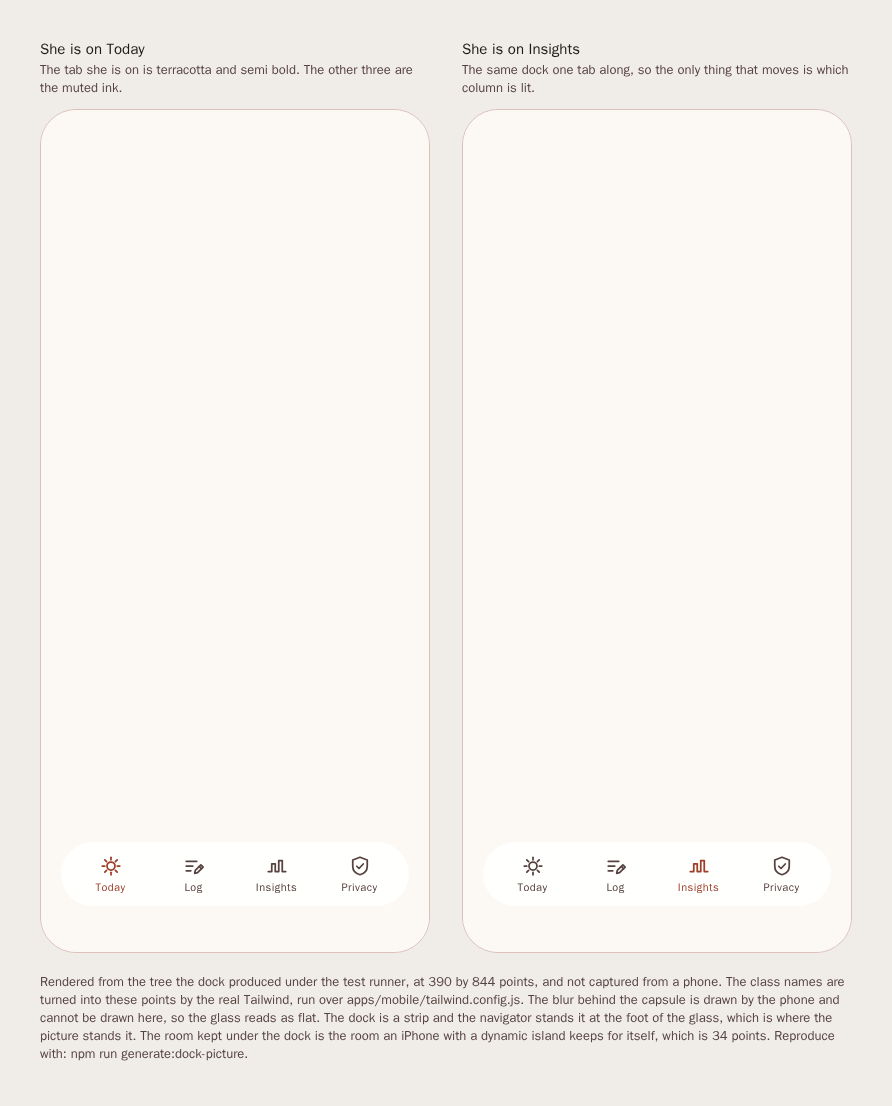
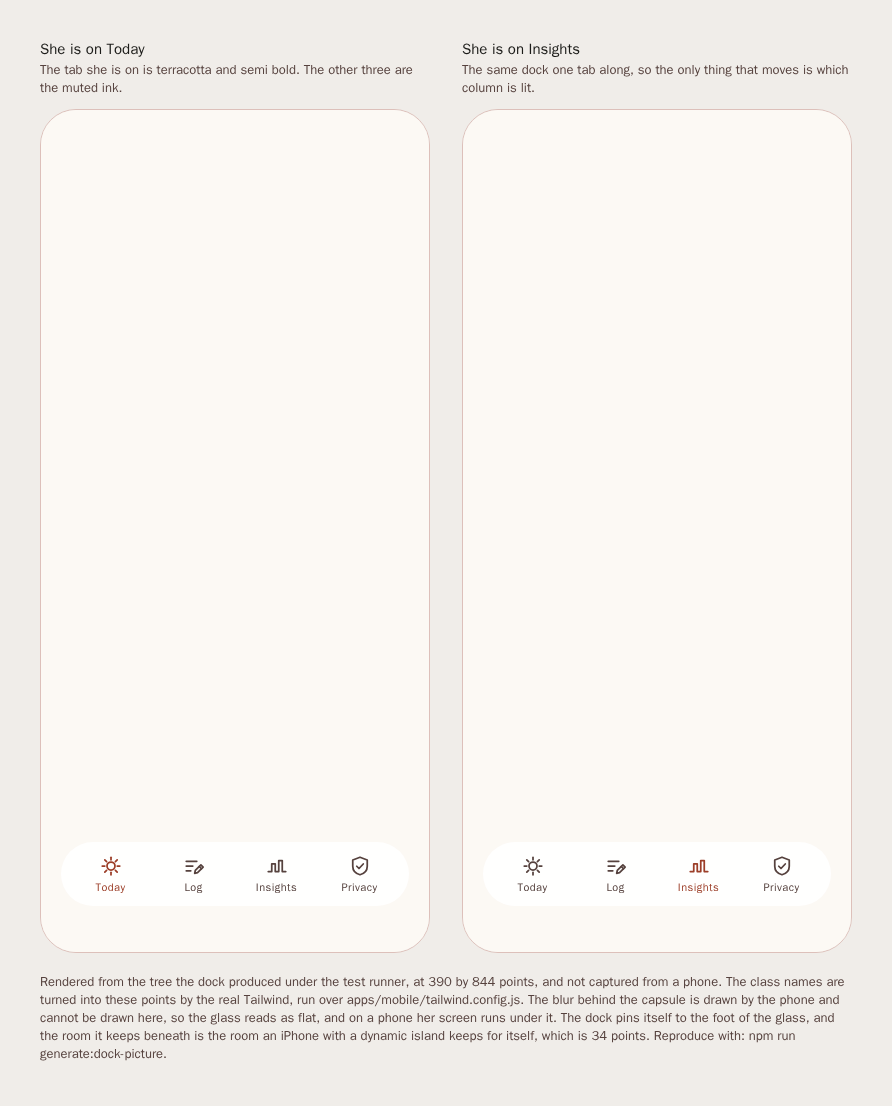
EMI: fix: the dock hangs over the screen instead of standing beside it

Changed region(s): [[0.0303, 0.8915, 0.9383, 0.9837]]

diff --git a/brand/screens/bottom-navigation.html b/brand/screens/bottom-navigation.html
@@ -26,4 +26,4 @@ svg { flex-shrink: 0; }
 .title { font-size: 15px; font-weight: 600; color: #1C1C19; margin: 0 0 2px; }
 .note { font-size: 13px; color: #56423E; margin: 0 0 12px; min-height: 34px; }
 .caveat { font-size: 13px; color: #56423E; margin: 20px 0 0; max-width: 1200px; }
-</style></head><body><div class="screens"><section class="screen"><p class="title">She is on Today</p><p class="note">The tab she is on is terracotta and semi bold. The other three are the muted ink.</p><div class="phone"><div style="background-color: #FCF9F4; height: 100%; justify-content: flex-end"><div style="padding-bottom: 34px"><div style="padding-inline: 20px; padding-bottom: 12px"><div style="margin-inline: auto; height: 64px; width: 100%; max-width: 448px; border-radius: 9999px"><div style="background-color: transparent; border-radius: 9999px; bottom: 0px; left: 0px; overflow: hidden; position: absolute; right: 0px; top: 0px"><div style="position: absolute; left: 0px; right: 0px; top: 0px; bottom: 0px"></div></div><div style="height: 64px; flex-direction: row; align-items: center; justify-content: space-around; border-radius: 9999px; background-color: #ffffffe5; padding-inline: 8px"><div style="height: 48px; min-width: 52px; flex-direction: column; align-items: center; justify-content: center"><svg width="24" height="24" viewBox="0 0 24 24"><g stroke="#9c3e28" stroke-width="1.75" stroke-linecap="round" stroke-linejoin="round"><circle cx="12" cy="12" r="4" fill="none"></circle><path d="M12 5.75V3.25" fill="none"></path><path d="M16.42 7.58 18.19 5.81" fill="none"></path><path d="M18.25 12h2.5" fill="none"></path><path d="m16.42 16.42 1.77 1.77" fill="none"></path><path d="M12 18.25v2.5" fill="none"></path><path d="M7.58 16.42 5.81 18.19" fill="none"></path><path d="M5.75 12h-2.5" fill="none"></path><path d="M7.58 7.58 5.81 5.81" fill="none"></path></g></svg><div style="margin-top: 2px; font-size: 11px; font-weight: 600; line-height: 14px; color: #9c3e28; letter-spacing: 0.44px">Today</div></div><div style="height: 48px; min-width: 52px; flex-direction: column; align-items: center; justify-content: center"><svg width="24" height="24" viewBox="0 0 24 24"><g stroke="#56423e" stroke-width="1.75" stroke-linecap="round" stroke-linejoin="round"><path d="M4.25 7.25h10.5" fill="none"></path><path d="M4.25 12h6.5" fill="none"></path><path d="M4.25 16.75h4.5" fill="none"></path><path d="m18.9 10.85 2.25 2.25-5.6 5.6-2.85.6.6-2.85z" fill="none"></path><path d="m17.25 12.5 2.25 2.25" fill="none"></path></g></svg><div style="margin-top: 2px; font-size: 11px; font-weight: 600; line-height: 14px; color: #56423e; letter-spacing: 0.44px">Log</div></div><div style="height: 48px; min-width: 52px; flex-direction: column; align-items: center; justify-content: center"><svg width="24" height="24" viewBox="0 0 24 24"><g stroke="#56423e" stroke-width="1.75" stroke-linecap="round" stroke-linejoin="round"><path d="M3.25 17.5h3.5V9.75h3.5v7.75h3.5V6.5h3.5v11h3.5" fill="none"></path></g></svg><div style="margin-top: 2px; font-size: 11px; font-weight: 600; line-height: 14px; color: #56423e; letter-spacing: 0.44px">Insights</div></div><div style="height: 48px; min-width: 52px; flex-direction: column; align-items: center; justify-content: center"><svg width="24" height="24" viewBox="0 0 24 24"><g stroke="#56423e" stroke-width="1.75" stroke-linecap="round" stroke-linejoin="round"><path d="M12 3.25 4.75 6v6.25c0 4.35 3 7.35 7.25 8.5 4.25-1.15 7.25-4.15 7.25-8.5V6z" fill="none"></path><path d="m8.75 12.25 2.25 2.25 4.25-4.5" fill="none"></path></g></svg><div style="margin-top: 2px; font-size: 11px; font-weight: 600; line-height: 14px; color: #56423e; letter-spacing: 0.44px">Privacy</div></div></div></div></div></div></div></div></section><section class="screen"><p class="title">She is on Insights</p><p class="note">The same dock one tab along, so the only thing that moves is which column is lit.</p><div class="phone"><div style="background-color: #FCF9F4; height: 100%; justify-content: flex-end"><div style="padding-bottom: 34px"><div style="padding-inline: 20px; padding-bottom: 12px"><div style="margin-inline: auto; height: 64px; width: 100%; max-width: 448px; border-radius: 9999px"><div style="background-color: transparent; border-radius: 9999px; bottom: 0px; left: 0px; overflow: hidden; position: absolute; right: 0px; top: 0px"><div style="position: absolute; left: 0px; right: 0px; top: 0px; bottom: 0px"></div></div><div style="height: 64px; flex-direction: row; align-items: center; justify-content: space-around; border-radius: 9999px; background-color: #ffffffe5; padding-inline: 8px"><div style="height: 48px; min-width: 52px; flex-direction: column; align-items: center; justify-content: center"><svg width="24" height="24" viewBox="0 0 24 24"><g stroke="#56423e" stroke-width="1.75" stroke-linecap="round" stroke-linejoin="round"><circle cx="12" cy="12" r="4" fill="none"></circle><path d="M12 5.75V3.25" fill="none"></path><path d="M16.42 7.58 18.19 5.81" fill="none"></path><path d="M18.25 12h2.5" fill="none"></path><path d="m16.42 16.42 1.77 1.77" fill="none"></path><path d="M12 18.25v2.5" fill="none"></path><path d="M7.58 16.42 5.81 18.19" fill="none"></path><path d="M5.75 12h-2.5" fill="none"></path><path d="M7.58 7.58 5.81 5.81" fill="none"></path></g></svg><div style="margin-top: 2px; font-size: 11px; font-weight: 600; line-height: 14px; color: #56423e; letter-spacing: 0.44px">Today</div></div><div style="height: 48px; min-width: 52px; flex-direction: column; align-items: center; justify-content: center"><svg width="24" height="24" viewBox="0 0 24 24"><g stroke="#56423e" stroke-width="1.75" stroke-linecap="round" stroke-linejoin="round"><path d="M4.25 7.25h10.5" fill="none"></path><path d="M4.25 12h6.5" fill="none"></path><path d="M4.25 16.75h4.5" fill="none"></path><path d="m18.9 10.85 2.25 2.25-5.6 5.6-2.85.6.6-2.85z" fill="none"></path><path d="m17.25 12.5 2.25 2.25" fill="none"></path></g></svg><div style="margin-top: 2px; font-size: 11px; font-weight: 600; line-height: 14px; color: #56423e; letter-spacing: 0.44px">Log</div></div><div style="height: 48px; min-width: 52px; flex-direction: column; align-items: center; justify-content: center"><svg width="24" height="24" viewBox="0 0 24 24"><g stroke="#9c3e28" stroke-width="1.75" stroke-linecap="round" stroke-linejoin="round"><path d="M3.25 17.5h3.5V9.75h3.5v7.75h3.5V6.5h3.5v11h3.5" fill="none"></path></g></svg><div style="margin-top: 2px; font-size: 11px; font-weight: 600; line-height: 14px; color: #9c3e28; letter-spacing: 0.44px">Insights</div></div><div style="height: 48px; min-width: 52px; flex-direction: column; align-items: center; justify-content: center"><svg width="24" height="24" viewBox="0 0 24 24"><g stroke="#56423e" stroke-width="1.75" stroke-linecap="round" stroke-linejoin="round"><path d="M12 3.25 4.75 6v6.25c0 4.35 3 7.35 7.25 8.5 4.25-1.15 7.25-4.15 7.25-8.5V6z" fill="none"></path><path d="m8.75 12.25 2.25 2.25 4.25-4.5" fill="none"></path></g></svg><div style="margin-top: 2px; font-size: 11px; font-weight: 600; line-height: 14px; color: #56423e; letter-spacing: 0.44px">Privacy</div></div></div></div></div></div></div></div></section></div><p class="caveat">Rendered from the tree the dock produced under the test runner, at 390 by 844 points, and not captured from a phone. The class names are turned into these points by the real Tailwind, run over apps/mobile/tailwind.config.js. The blur behind the capsule is drawn by the phone and cannot be drawn here, so the glass reads as flat. The dock is a strip and the navigator stands it at the foot of the glass, which is where the picture stands it. The room kept under the dock is the room an iPhone with a dynamic island keeps for itself, which is 34 points. Reproduce with: npm run generate:dock-picture.</p></body></html>
+</style></head><body><div class="screens"><section class="screen"><p class="title">She is on Today</p><p class="note">The tab she is on is terracotta and semi bold. The other three are the muted ink.</p><div class="phone"><div style="background-color: #FCF9F4; height: 100%"><div style="bottom: 0px; left: 0px; position: absolute; right: 0px; padding-bottom: 34px"><div style="padding-inline: 20px; padding-bottom: 12px"><div style="margin-inline: auto; height: 64px; width: 100%; max-width: 448px; border-radius: 9999px"><div style="background-color: transparent; border-radius: 9999px; bottom: 0px; left: 0px; overflow: hidden; position: absolute; right: 0px; top: 0px"><div style="position: absolute; left: 0px; right: 0px; top: 0px; bottom: 0px"></div></div><div style="height: 64px; flex-direction: row; align-items: center; justify-content: space-around; border-radius: 9999px; background-color: #ffffffe5; padding-inline: 8px"><div style="height: 48px; min-width: 52px; flex-direction: column; align-items: center; justify-content: center"><svg width="24" height="24" viewBox="0 0 24 24"><g stroke="#9c3e28" stroke-width="1.75" stroke-linecap="round" stroke-linejoin="round"><circle cx="12" cy="12" r="4" fill="none"></circle><path d="M12 5.75V3.25" fill="none"></path><path d="M16.42 7.58 18.19 5.81" fill="none"></path><path d="M18.25 12h2.5" fill="none"></path><path d="m16.42 16.42 1.77 1.77" fill="none"></path><path d="M12 18.25v2.5" fill="none"></path><path d="M7.58 16.42 5.81 18.19" fill="none"></path><path d="M5.75 12h-2.5" fill="none"></path><path d="M7.58 7.58 5.81 5.81" fill="none"></path></g></svg><div style="margin-top: 2px; font-size: 11px; font-weight: 600; line-height: 14px; color: #9c3e28; letter-spacing: 0.44px">Today</div></div><div style="height: 48px; min-width: 52px; flex-direction: column; align-items: center; justify-content: center"><svg width="24" height="24" viewBox="0 0 24 24"><g stroke="#56423e" stroke-width="1.75" stroke-linecap="round" stroke-linejoin="round"><path d="M4.25 7.25h10.5" fill="none"></path><path d="M4.25 12h6.5" fill="none"></path><path d="M4.25 16.75h4.5" fill="none"></path><path d="m18.9 10.85 2.25 2.25-5.6 5.6-2.85.6.6-2.85z" fill="none"></path><path d="m17.25 12.5 2.25 2.25" fill="none"></path></g></svg><div style="margin-top: 2px; font-size: 11px; font-weight: 600; line-height: 14px; color: #56423e; letter-spacing: 0.44px">Log</div></div><div style="height: 48px; min-width: 52px; flex-direction: column; align-items: center; justify-content: center"><svg width="24" height="24" viewBox="0 0 24 24"><g stroke="#56423e" stroke-width="1.75" stroke-linecap="round" stroke-linejoin="round"><path d="M3.25 17.5h3.5V9.75h3.5v7.75h3.5V6.5h3.5v11h3.5" fill="none"></path></g></svg><div style="margin-top: 2px; font-size: 11px; font-weight: 600; line-height: 14px; color: #56423e; letter-spacing: 0.44px">Insights</div></div><div style="height: 48px; min-width: 52px; flex-direction: column; align-items: center; justify-content: center"><svg width="24" height="24" viewBox="0 0 24 24"><g stroke="#56423e" stroke-width="1.75" stroke-linecap="round" stroke-linejoin="round"><path d="M12 3.25 4.75 6v6.25c0 4.35 3 7.35 7.25 8.5 4.25-1.15 7.25-4.15 7.25-8.5V6z" fill="none"></path><path d="m8.75 12.25 2.25 2.25 4.25-4.5" fill="none"></path></g></svg><div style="margin-top: 2px; font-size: 11px; font-weight: 600; line-height: 14px; color: #56423e; letter-spacing: 0.44px">Privacy</div></div></div></div></div></div></div></div></section><section class="screen"><p class="title">She is on Insights</p><p class="note">The same dock one tab along, so the only thing that moves is which column is lit.</p><div class="phone"><div style="background-color: #FCF9F4; height: 100%"><div style="bottom: 0px; left: 0px; position: absolute; right: 0px; padding-bottom: 34px"><div style="padding-inline: 20px; padding-bottom: 12px"><div style="margin-inline: auto; height: 64px; width: 100%; max-width: 448px; border-radius: 9999px"><div style="background-color: transparent; border-radius: 9999px; bottom: 0px; left: 0px; overflow: hidden; position: absolute; right: 0px; top: 0px"><div style="position: absolute; left: 0px; right: 0px; top: 0px; bottom: 0px"></div></div><div style="height: 64px; flex-direction: row; align-items: center; justify-content: space-around; border-radius: 9999px; background-color: #ffffffe5; padding-inline: 8px"><div style="height: 48px; min-width: 52px; flex-direction: column; align-items: center; justify-content: center"><svg width="24" height="24" viewBox="0 0 24 24"><g stroke="#56423e" stroke-width="1.75" stroke-linecap="round" stroke-linejoin="round"><circle cx="12" cy="12" r="4" fill="none"></circle><path d="M12 5.75V3.25" fill="none"></path><path d="M16.42 7.58 18.19 5.81" fill="none"></path><path d="M18.25 12h2.5" fill="none"></path><path d="m16.42 16.42 1.77 1.77" fill="none"></path><path d="M12 18.25v2.5" fill="none"></path><path d="M7.58 16.42 5.81 18.19" fill="none"></path><path d="M5.75 12h-2.5" fill="none"></path><path d="M7.58 7.58 5.81 5.81" fill="none"></path></g></svg><div style="margin-top: 2px; font-size: 11px; font-weight: 600; line-height: 14px; color: #56423e; letter-spacing: 0.44px">Today</div></div><div style="height: 48px; min-width: 52px; flex-direction: column; align-items: center; justify-content: center"><svg width="24" height="24" viewBox="0 0 24 24"><g stroke="#56423e" stroke-width="1.75" stroke-linecap="round" stroke-linejoin="round"><path d="M4.25 7.25h10.5" fill="none"></path><path d="M4.25 12h6.5" fill="none"></path><path d="M4.25 16.75h4.5" fill="none"></path><path d="m18.9 10.85 2.25 2.25-5.6 5.6-2.85.6.6-2.85z" fill="none"></path><path d="m17.25 12.5 2.25 2.25" fill="none"></path></g></svg><div style="margin-top: 2px; font-size: 11px; font-weight: 600; line-height: 14px; color: #56423e; letter-spacing: 0.44px">Log</div></div><div style="height: 48px; min-width: 52px; flex-direction: column; align-items: center; justify-content: center"><svg width="24" height="24" viewBox="0 0 24 24"><g stroke="#9c3e28" stroke-width="1.75" stroke-linecap="round" stroke-linejoin="round"><path d="M3.25 17.5h3.5V9.75h3.5v7.75h3.5V6.5h3.5v11h3.5" fill="none"></path></g></svg><div style="margin-top: 2px; font-size: 11px; font-weight: 600; line-height: 14px; color: #9c3e28; letter-spacing: 0.44px">Insights</div></div><div style="height: 48px; min-width: 52px; flex-direction: column; align-items: center; justify-content: center"><svg width="24" height="24" viewBox="0 0 24 24"><g stroke="#56423e" stroke-width="1.75" stroke-linecap="round" stroke-linejoin="round"><path d="M12 3.25 4.75 6v6.25c0 4.35 3 7.35 7.25 8.5 4.25-1.15 7.25-4.15 7.25-8.5V6z" fill="none"></path><path d="m8.75 12.25 2.25 2.25 4.25-4.5" fill="none"></path></g></svg><div style="margin-top: 2px; font-size: 11px; font-weight: 600; line-height: 14px; color: #56423e; letter-spacing: 0.44px">Privacy</div></div></div></div></div></div></div></div></section></div><p class="caveat">Rendered from the tree the dock produced under the test runner, at 390 by 844 points, and not captured from a phone. The class names are turned into these points by the real Tailwind, run over apps/mobile/tailwind.config.js. The blur behind the capsule is drawn by the phone and cannot be drawn here, so the glass reads as flat, and on a phone her screen runs under it. The dock pins itself to the foot of the glass, and the room it keeps beneath is the room an iPhone with a dynamic island keeps for itself, which is 34 points. Reproduce with: npm run generate:dock-picture.</p></body></html>

diff --git a/packages/ui/src/BottomNavigation.tsx b/packages/ui/src/BottomNavigation.tsx
@@ -1,6 +1,7 @@
-import { type IconName, colour, radius } from '@emi/tokens';
+import { REM_IN_POINTS, type IconName, colour, radius } from '@emi/tokens';
 import { BlurView } from 'expo-blur';
 import type { ReactNode } from 'react';
+import { createContext, useContext } from 'react';
 import { StyleSheet } from 'react-native';
 import { useSafeAreaInsets } from 'react-native-safe-area-context';
 
@@ -21,6 +22,11 @@ import { Text } from './gluestack/text';
  * The chrome knows nothing about routing or about words. It is handed the tabs, told which one she
  * is on, and calls back when she picks another, so the one list of tabs lives with the screens it
  * names rather than in here.
+ *
+ * It hangs over the screen rather than standing beside it. The prototype's nav is fixed to the
+ * bottom of the page and out of the flow, so her screen fills the glass to the bottom edge and the
+ * capsule floats over it. That is what the blur behind the capsule is for: something has to pass
+ * under it. The air around the capsule lets a press through, and only the capsule takes one.
  */
 
 /** One column of the dock. */
@@ -45,9 +51,36 @@ export const bottomNavigationTestID = 'bottom-navigation';
 /** The capsule inside it, which carries the height, the corner and the fill. */
 export const capsuleTestID = 'bottom-navigation-capsule';
 
+/** The box that stands the capsule off the edges of the glass and off the foot. */
+export const standOffTestID = 'bottom-navigation-stand-off';
+
 /** One column, by the name of the route it reaches. */
 export function tabTestID(name: string): string {
   return `bottom-navigation-${name}`;
+}
+
+/**
+ * The room a screen leaves at its foot so the dock covers nothing she can read.
+ *
+ * It is the prototype's own `pb-28`, which is twenty eight steps of Tailwind's quarter rem scale
+ * at sixteen points to the rem. The dock pads itself by the room the phone keeps, so this is
+ * measured from the bottom edge of the glass and stands in for that inset rather than adding to it.
+ */
+export const dockRoom = 28 * 0.25 * REM_IN_POINTS;
+
+const RoomAtTheFoot = createContext<number | undefined>(undefined);
+
+/**
+ * Says that a dock hangs over the screens inside it, so each of them leaves room at its foot.
+ * A screen the dock never reaches asks and is told nothing, and reserves nothing.
+ */
+export function TheDockHangsOver({ children }: { readonly children: ReactNode }): ReactNode {
+  return <RoomAtTheFoot.Provider value={dockRoom}>{children}</RoomAtTheFoot.Provider>;
+}
+
+/** The room at the foot of this screen, or nothing where no dock hangs over it. */
+export function useRoomAtTheFoot(): number | undefined {
+  return useContext(RoomAtTheFoot);
 }
 
 /**
@@ -71,6 +104,12 @@ const styles = StyleSheet.create({
     right: 0,
     top: 0,
   },
+  overTheScreen: {
+    bottom: 0,
+    left: 0,
+    position: 'absolute',
+    right: 0,
+  },
 });
 
 const BLUR_AMOUNT = 40;
@@ -80,12 +119,25 @@ export function BottomNavigation({ tabs, chosen, onChoose }: Props): ReactNode {
   const insets = useSafeAreaInsets();
 
   return (
-    <Box style={{ paddingBottom: insets.bottom }} testID={bottomNavigationTestID}>
-      <Box className="px-margin pb-3">
-        <Box className={`mx-auto h-16 w-full max-w-md rounded-full ${capsuleShadow}`}>
-          <BlurView intensity={BLUR_AMOUNT} style={styles.glass} tint="light" />
+    <Box
+      pointerEvents="box-none"
+      style={[styles.overTheScreen, { paddingBottom: insets.bottom }]}
+      testID={bottomNavigationTestID}
+    >
+      <Box className="px-margin pb-3" pointerEvents="box-none" testID={standOffTestID}>
+        <Box
+          className={`mx-auto h-16 w-full max-w-md rounded-full ${capsuleShadow}`}
+          pointerEvents="box-none"
+        >
+          <BlurView
+            intensity={BLUR_AMOUNT}
+            pointerEvents="none"
+            style={styles.glass}
+            tint="light"
+          />
           <HStack
             className="h-16 items-center justify-around rounded-full bg-surface-container-lowest/90 px-2"
+            pointerEvents="auto"
             testID={capsuleTestID}
           >
             {tabs.map((tab) => {

diff --git a/apps/mobile/tests/integration/chrome.test.tsx b/apps/mobile/tests/integration/chrome.test.tsx
@@ -2,7 +2,14 @@ import { readFileSync } from 'node:fs';
 import { join } from 'node:path';
 
 import { colour } from '@emi/tokens';
-import { BottomNavigation, bottomNavigationTestID, capsuleTestID, tabTestID } from '@emi/ui';
+import {
+  BottomNavigation,
+  bottomNavigationTestID,
+  capsuleTestID,
+  dockRoom,
+  standOffTestID,
+  tabTestID,
+} from '@emi/ui';
 import { render } from '@testing-library/react-native';
 import { fireEvent, renderRouter, screen } from 'expo-router/testing-library';
 import { AccessibilityInfo, StyleSheet } from 'react-native';
@@ -11,6 +18,7 @@ import { homeScreenTestID } from '../../src/features/home/HomeScreen';
 import { historyScreenTestID } from '../../src/features/history/HistoryScreen';
 import { logFlowTestID } from '../../src/features/log/LogFlow';
 import { onboardingActionTestID } from '../../src/features/onboarding/OnboardingScreen';
+import { deleteScreenTestID } from '../../src/features/settings/DeleteEverything';
 import { settingsScreenTestID } from '../../src/features/settings/SettingsScreen';
 import { tabs } from '../../src/features/chrome/tabs';
 import { resetExpoSqlite } from '../data/expoSqlite';
@@ -251,6 +259,64 @@ describe('the app draws its chrome from gluestack, and the bottom navigation is 
       await theDockOnAPhone();
 
       expect(theStyleOf(tabTestID('index'))).toMatchObject({ height: 48, minWidth: 52 });
+    });
+  });
+
+  describe('the dock hangs over the screen rather than standing beside it', () => {
+    /** What a node was told about touches, which is what lets a press through or stops it. */
+    function theTouchesOn(testID: string): unknown {
+      return screen.getByTestId(testID).props['pointerEvents'];
+    }
+
+    it('lets a tab screen reach the bottom edge of the glass, with the dock over it', async () => {
+      await sheOpens('/');
+
+      // The runner lays nothing out, so what is read here is the reason the screen reaches the
+      // edge: the dock is out of the flow, so the screens beside it are measured without it.
+      expect(theStyleOf(bottomNavigationTestID)).toMatchObject({ bottom: 0, position: 'absolute' });
+      expect(screen.getByTestId(homeScreenTestID)).toBeTruthy();
+    });
+
+    it('lets a press on the air beside the capsule through, and still moves her on a tab', async () => {
+      await sheOpens('/');
+
+      expect(theTouchesOn(bottomNavigationTestID)).toBe('box-none');
+      expect(theTouchesOn(capsuleTestID)).toBe('auto');
+
+      await fireEvent.press(screen.getByTestId(tabTestID('history')));
+
+      expect(screen.getByTestId(historyScreenTestID)).toBeTruthy();
+    });
+
+    it('clears the dock at the foot of a tab screen, so nothing she can read is covered', async () => {
+      await sheOpens('/');
+
+      expect(theStyleOf(homeScreenTestID)['paddingBottom']).toBe(dockRoom);
+    });
+
+    it('reserves more than the dock draws, on a phone that keeps room of its own', async () => {
+      // Read on a phone with an island, because the dock pads itself by what the phone keeps and
+      // the router hands the screens no insets at all.
+      await render(
+        <OnAPhone>
+          <BottomNavigation chosen="index" onChoose={() => undefined} tabs={tabs} />
+        </OnAPhone>,
+      );
+
+      const drawn =
+        Number(theStyleOf(bottomNavigationTestID)['paddingBottom']) +
+        Number(theStyleOf(standOffTestID)['paddingBottom']) +
+        Number(theStyleOf(capsuleTestID)['height']);
+
+      expect(drawn).toBeGreaterThan(0);
+      expect(dockRoom).toBeGreaterThanOrEqual(drawn);
+    });
+
+    it('leaves no room at the foot of a screen no dock reaches', async () => {
+      await sheOpens('/settings/delete');
+
+      expect(screen.queryByTestId(bottomNavigationTestID)).toBeNull();
+      expect(theStyleOf(deleteScreenTestID)['paddingBottom']).not.toBe(dockRoom);
     });
   });
 

diff --git a/apps/mobile/tests/pictures/bottomNavigation.picture.tsx b/apps/mobile/tests/pictures/bottomNavigation.picture.tsx
@@ -21,18 +21,14 @@ const theCaveat = [
   'Rendered from the tree the dock produced under the test runner, at 390 by 844 points, and not',
   'captured from a phone. The class names are turned into these points by the real Tailwind, run',
   'over apps/mobile/tailwind.config.js. The blur behind the capsule is drawn by the phone and',
-  'cannot be drawn here, so the glass reads as flat. The dock is a strip and the navigator stands',
-  'it at the foot of the glass, which is where the picture stands it. The room kept under the dock',
-  'is the room an',
-  'iPhone with a dynamic island keeps for itself, which is 34 points.',
+  'cannot be drawn here, so the glass reads as flat, and on a phone her screen runs under it. The',
+  'dock pins itself to the foot of the glass, and the room it keeps beneath is the room an iPhone',
+  'with a dynamic island keeps for itself, which is 34 points.',
   'Reproduce with: npm run generate:dock-picture.',
 ].join(' ');
 
-const theFootOfTheGlass = {
-  backgroundColor: colour.surface,
-  height: '100%',
-  justifyContent: 'flex-end',
-} as const;
+/** Her surface, filling the glass, because the dock pins itself over it rather than sitting under it. */
+const theGlass = { backgroundColor: colour.surface, height: '100%' } as const;
 
 interface Standing {
   readonly title: string;
@@ -54,11 +50,11 @@ const theStates: readonly Standing[] = [
 ];
 
 async function drawn(standing: Standing): Promise<DrawnScreen> {
-  // The dock is a strip, and the navigator stands it at the foot of the glass. The picture stands
-  // it in the same place so it is looked at where she will see it.
+  // The dock takes no room in the flow, so it is drawn over a glass of her own surface, which is
+  // what a screen puts under it.
   const view = await render(
     <OnAPhone>
-      <View style={theFootOfTheGlass}>
+      <View style={theGlass}>
         <BottomNavigation chosen={standing.chosen} onChoose={() => undefined} tabs={tabs} />
       </View>
     </OnAPhone>,

diff --git a/apps/mobile/src/components/Screen.tsx b/apps/mobile/src/components/Screen.tsx
@@ -1,4 +1,5 @@
 import { colour } from '@emi/tokens';
+import { useRoomAtTheFoot } from '@emi/ui';
 import type { ReactNode } from 'react';
 import { StyleSheet, View } from 'react-native';
 import { useSafeAreaInsets } from 'react-native-safe-area-context';
@@ -13,6 +14,12 @@ import { useSafeAreaInsets } from 'react-native-safe-area-context';
  *
  * Twelve screens stand on this one component, because a rule kept in twelve places is a rule that
  * is already broken in one of them.
+ *
+ * The dock is the other thing that takes room at the foot. It hangs over the screen rather than
+ * standing beside it, so a screen it covers leaves room for it instead of the inset: the dock pads
+ * itself by what the phone keeps, and its room is measured from the bottom edge of the glass. A
+ * screen no dock reaches, the first run and the two screens pushed over the tabs, reserves the
+ * inset alone and gains no gap.
  */
 
 interface Props {
@@ -22,13 +29,14 @@ interface Props {
 
 export function Screen({ testID, children }: Props): ReactNode {
   const insets = useSafeAreaInsets();
+  const roomForTheDock = useRoomAtTheFoot();
 
   return (
     <View
       style={[
         styles.screen,
         {
-          paddingBottom: insets.bottom,
+          paddingBottom: roomForTheDock ?? insets.bottom,
           paddingLeft: insets.left,
           paddingRight: insets.right,
           paddingTop: insets.top,

diff --git a/apps/mobile/src/app/(tabs)/_layout.tsx b/apps/mobile/src/app/(tabs)/_layout.tsx
@@ -1,3 +1,4 @@
+import { TheDockHangsOver } from '@emi/ui';
 import { Tabs } from 'expo-router/js-tabs';
 import type { ReactNode } from 'react';
 
@@ -11,16 +12,21 @@ import { tabs } from '../../features/chrome/tabs';
  * is still at `/`, the log sheet at `/log`. Everything the dock does not reach, the first run
  * among them, stays outside this group in the navigator above, which is what keeps a way back from
  * a day and from the delete screen.
+ *
+ * The dock hangs over these screens rather than standing beside them, so each of them is told to
+ * leave room for it at its foot. A screen outside this group is told nothing and leaves none.
  */
 export default function TabsLayout(): ReactNode {
   return (
-    <Tabs
-      screenOptions={{ animation: 'none', headerShown: false }}
-      tabBar={(props) => <Dock {...props} />}
-    >
-      {tabs.map((tab) => (
-        <Tabs.Screen key={tab.name} name={tab.name} />
-      ))}
-    </Tabs>
+    <TheDockHangsOver>
+      <Tabs
+        screenOptions={{ animation: 'none', headerShown: false }}
+        tabBar={(props) => <Dock {...props} />}
+      >
+        {tabs.map((tab) => (
+          <Tabs.Screen key={tab.name} name={tab.name} />
+        ))}
+      </Tabs>
+    </TheDockHangsOver>
   );
 }

diff --git a/docs/reference/ui.md b/docs/reference/ui.md
@@ -4,7 +4,7 @@ The exported surface of `packages/ui`, generated by `npm run generate:reference`
 Nobody writes this page by hand. The prose under each symbol is the documentation comment that
 sits on it in the source, so this page cannot say one thing while the code says another.
 
-9 exported symbols, across 9 files.
+13 exported symbols, across 9 files.
 
 ## `packages/ui/src/index.ts`
 
@@ -49,6 +49,14 @@ const capsuleTestID = 'bottom-navigation-capsule'
 
 The capsule inside it, which carries the height, the corner and the fill.
 
+### `standOffTestID`
+
+```
+const standOffTestID = 'bottom-navigation-stand-off'
+```
+
+The box that stands the capsule off the edges of the glass and off the foot.
+
 ### `tabTestID`
 
 ```
@@ -56,6 +64,35 @@ function tabTestID(name: string): string
 ```
 
 One column, by the name of the route it reaches.
+
+### `dockRoom`
+
+```
+const dockRoom = 28 * 0.25 * REM_IN_POINTS
+```
+
+The room a screen leaves at its foot so the dock covers nothing she can read.
+
+It is the prototype's own `pb-28`, which is twenty eight steps of Tailwind's quarter rem scale
+at sixteen points to the rem. The dock pads itself by the room the phone keeps, so this is
+measured from the bottom edge of the glass and stands in for that inset rather than adding to it.
+
+### `TheDockHangsOver`
+
+```
+function TheDockHangsOver({ children }: { readonly children: ReactNode }): ReactNode
+```
+
+Says that a dock hangs over the screens inside it, so each of them leaves room at its foot.
+A screen the dock never reaches asks and is told nothing, and reserves nothing.
+
+### `useRoomAtTheFoot`
+
+```
+function useRoomAtTheFoot(): number | undefined
+```
+
+The room at the foot of this screen, or nothing where no dock hangs over it.
 
 ### `BottomNavigation`
 

diff --git a/docs/reference/README.md b/docs/reference/README.md
@@ -8,7 +8,7 @@ values are in range.
 - `crypto.md` is `@emi/crypto`, 83 exported symbols across 7 files.
 - `cycle.md` is `@emi/cycle`, 97 exported symbols across 8 files.
 - `tokens.md` is `@emi/tokens`, 77 exported symbols across 8 files.
-- `ui.md` is `@emi/ui`, 9 exported symbols across 9 files.
+- `ui.md` is `@emi/ui`, 13 exported symbols across 9 files.
 - `vault.md` is `@emi/vault`, 84 exported symbols across 14 files.
 
 ## The three rules the pipeline enforces
